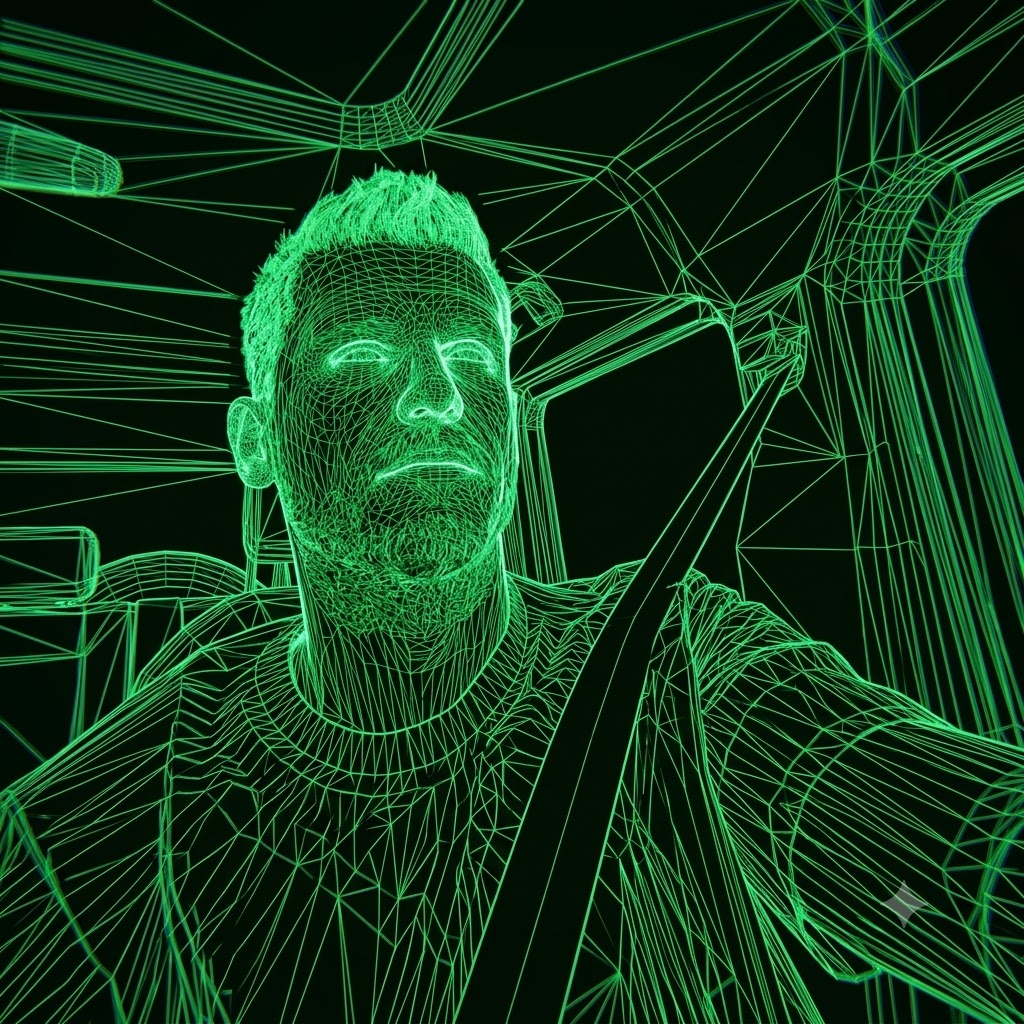
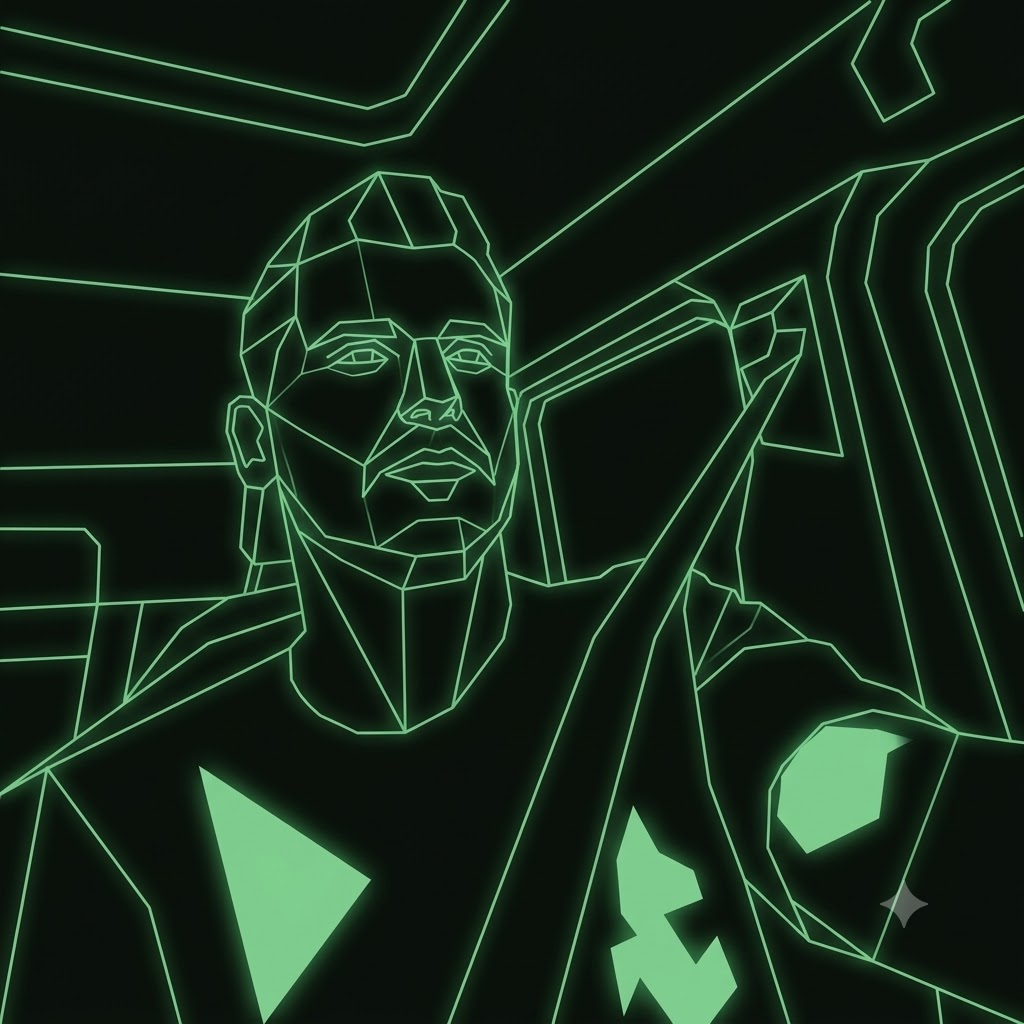
auto-commit for da81a8e6-0819-4bdd-b0ca-b4172cdc11ed

diff --git a/frontend/src/components/Hero3D.jsx b/frontend/src/components/Hero3D.jsx
@@ -46,14 +46,26 @@ export default function Hero3D() {
         </Suspense>
       </Canvas>
 
-      {/* Wireframe portrait, centered in the hero area, breathing slowly */}
+      {/* Wireframe portrait, centered in the hero area, gently floating */}
       <motion.img
         src="/svj-wireframe.png"
         alt=""
         aria-hidden="true"
-        initial={{ opacity: 0, scale: 1.04 }}
-        animate={{ opacity: 0.95, scale: 1 }}
-        transition={{ duration: 1.6, ease: "easeOut" }}
+        initial={{ opacity: 0, scale: 1.06 }}
+        animate={{
+          opacity: 0.95,
+          scale: [1, 1.025, 1],
+          y: [0, -10, 0, 8, 0],
+          x: [0, 6, 0, -6, 0],
+          rotate: [0, 0.6, 0, -0.6, 0],
+        }}
+        transition={{
+          opacity: { duration: 1.6, ease: "easeOut" },
+          scale: { duration: 9, repeat: Infinity, ease: "easeInOut" },
+          y: { duration: 12, repeat: Infinity, ease: "easeInOut" },
+          x: { duration: 14, repeat: Infinity, ease: "easeInOut" },
+          rotate: { duration: 16, repeat: Infinity, ease: "easeInOut" },
+        }}
         className="absolute inset-0 m-auto h-full w-auto max-w-none object-contain select-none"
         style={{
           WebkitMaskImage:
@@ -62,6 +74,7 @@ export default function Hero3D() {
             "radial-gradient(ellipse 55% 65% at 50% 45%, black 40%, rgba(0,0,0,0.8) 68%, transparent 92%)",
           mixBlendMode: "screen",
           filter: "drop-shadow(0 0 80px rgba(83,252,24,0.22))",
+          willChange: "transform",
         }}
         data-testid="hero-portrait"
       />